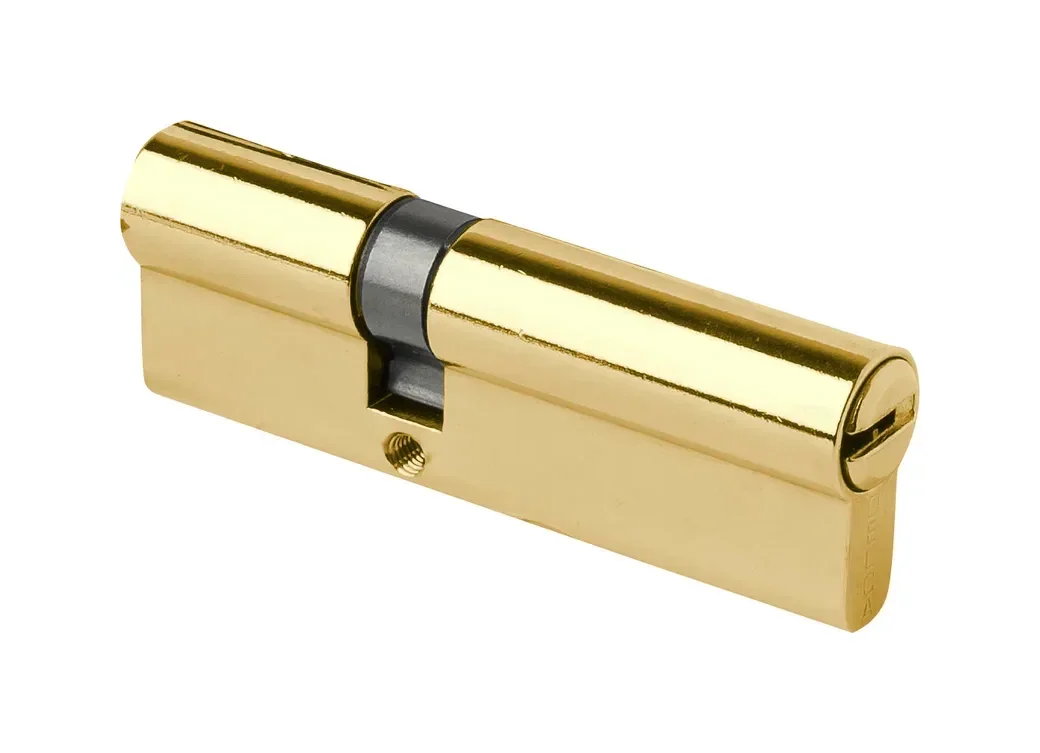
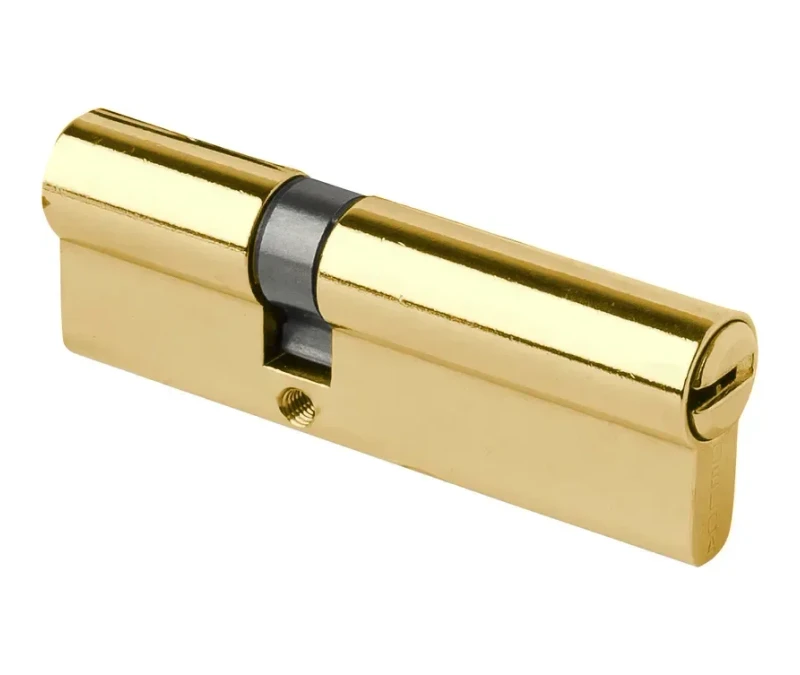
Update simple-cylinder product cards and photos
- Resize product-21.webp (010-27/33) to 800x675 to match other product photos
- Color-match cylinder-010-27-27.webp (010-27/27) to the polished brass
  tone of 010-27/33 via statistical color transfer, keeping the black
  hardware collar untouched (masked out by HSV saturation)
- Simplify the three cylinder card titles to "Κύλινδρος ασφαλείας XX χιλ."
  and move the Greek-made/3-keys note into the description line

Claude-Session: https://claude.ai/code/session_011BXxo4igi1eCFnmRRgzqpH

diff --git a/index.html b/index.html
@@ -717,15 +717,15 @@
         <div class="prod-grid">
           <article class="prod-card" data-spec-el="Τύπος: Ελληνικός κύλινδρος ασφαλείας|Κέντρο: 27x27mm (54mm συνολικό μήκος)|Φινίρισμα: Ορείχαλκο|Περιλαμβάνει 3 κλειδιά">
             <div class="prod-photo"><img src="images/cylinder-010-27-27.webp" loading="lazy" alt="Κύλινδρος ασφαλείας 54mm Ορείχαλκο"></div>
-            <div class="prod-info"><span class="prod-code">010-27/27</span><h4 data-i18n="p20t">Κύλινδρος ασφαλείας 54 χιλ. Ελληνικός</h4><p data-i18n="p20d">Επιμεταλλωμένο φινίρισμα.</p></div>
+            <div class="prod-info"><span class="prod-code">010-27/27</span><h4 data-i18n="p20t">Κύλινδρος ασφαλείας 54 χιλ.</h4><p data-i18n="p20d">Ελληνικός, με 3 κλειδιά.</p></div>
           </article>
           <article class="prod-card" data-spec-el="Τύπος: Ελληνικός κύλινδρος ασφαλείας|Κέντρο: 27x33mm (60mm συνολικό μήκος)|Φινίρισμα: Ορείχαλκο|Περιλαμβάνει 3 κλειδιά">
             <div class="prod-photo"><img src="images/product-21.webp" loading="lazy" alt="Κύλινδρος ασφαλείας 60 χιλ. Ελληνικός"></div>
-            <div class="prod-info"><span class="prod-code">010-27/33</span><h4 data-i18n="p21t">Κύλινδρος ασφαλείας 60 χιλ.</h4><p data-i18n="p21d">Ελληνικός.</p></div>
+            <div class="prod-info"><span class="prod-code">010-27/33</span><h4 data-i18n="p21t">Κύλινδρος ασφαλείας 60 χιλ.</h4><p data-i18n="p21d">Ελληνικός, με 3 κλειδιά.</p></div>
           </article>
           <article class="prod-card" data-spec-el="Τύπος: Ελληνικός κύλινδρος ασφαλείας|Κέντρο: 30x45mm (75mm συνολικό μήκος)|Φινίρισμα: Νίκελ|Περιλαμβάνει 3 κλειδιά">
             <div class="prod-photo"><img src="images/cylinder-010-30-45N.webp" loading="lazy" alt="Κύλινδρος ασφαλείας 75mm Νίκελ"></div>
-            <div class="prod-info"><span class="prod-code">010-30/45Ν</span><h4 data-i18n="p22t">Κύλινδρος ασφαλείας 75 χιλ.</h4><p data-i18n="p22d">Νίκελ, Ελληνικός.</p></div>
+            <div class="prod-info"><span class="prod-code">010-30/45Ν</span><h4 data-i18n="p22t">Κύλινδρος ασφαλείας 75 χιλ.</h4><p data-i18n="p22d">Ελληνικός, με 3 κλειδιά.</p></div>
           </article>
         </div>
       </div>
@@ -1132,12 +1132,12 @@
     "p19t": {el:"Μεσόπορτας ξύλου", en:"Wood Interior Door Lock", it:"Serratura per Porta Interna in Legno", de:"Innentürschloss für Holztüren", fr:"Serrure de Porte Intérieure Bois"},
     "p19d": {el:"Σειρά Testa για ξύλινες πόρτες.", en:"Testa line for wooden doors.", it:"Linea Testa per porte in legno.", de:"Testa-Serie für Holztüren.", fr:"Gamme Testa pour portes en bois."},
 
-    "p20t": {el:"Κύλινδρος ασφαλείας 54 χιλ. Ελληνικός", en:"Security Cylinder 54mm, Greek-made", it:"Cilindro di Sicurezza 54mm, di produzione greca", de:"Sicherheitszylinder 54mm, griechische Fertigung", fr:"Cylindre de Sécurité 54mm, fabrication grecque"},
-    "p20d": {el:"Επιμεταλλωμένο φινίρισμα.", en:"Plated finish.", it:"Finitura placcata.", de:"Beschichtetes Finish.", fr:"Finition plaquée."},
+    "p20t": {el:"Κύλινδρος ασφαλείας 54 χιλ.", en:"Security Cylinder 54mm", it:"Cilindro di Sicurezza 54mm", de:"Sicherheitszylinder 54mm", fr:"Cylindre de Sécurité 54mm"},
+    "p20d": {el:"Ελληνικός, με 3 κλειδιά.", en:"Greek-made, with 3 keys.", it:"Di produzione greca, con 3 chiavi.", de:"Griechische Fertigung, mit 3 Schlüsseln.", fr:"Fabrication grecque, avec 3 clés."},
     "p21t": {el:"Κύλινδρος ασφαλείας 60 χιλ.", en:"Security Cylinder 60mm", it:"Cilindro di Sicurezza 60mm", de:"Sicherheitszylinder 60mm", fr:"Cylindre de Sécurité 60mm"},
-    "p21d": {el:"Ελληνικός.", en:"Greek-made.", it:"Di produzione greca.", de:"Griechische Fertigung.", fr:"Fabrication grecque."},
+    "p21d": {el:"Ελληνικός, με 3 κλειδιά.", en:"Greek-made, with 3 keys.", it:"Di produzione greca, con 3 chiavi.", de:"Griechische Fertigung, mit 3 Schlüsseln.", fr:"Fabrication grecque, avec 3 clés."},
     "p22t": {el:"Κύλινδρος ασφαλείας 75 χιλ.", en:"Security Cylinder 75mm", it:"Cilindro di Sicurezza 75mm", de:"Sicherheitszylinder 75mm", fr:"Cylindre de Sécurité 75mm"},
-    "p22d": {el:"Νίκελ, Ελληνικός.", en:"Nickel, Greek-made.", it:"Nichel, di produzione greca.", de:"Nickel, griechische Fertigung.", fr:"Nickel, fabrication grecque."},
+    "p22d": {el:"Ελληνικός, με 3 κλειδιά.", en:"Greek-made, with 3 keys.", it:"Di produzione greca, con 3 chiavi.", de:"Griechische Fertigung, mit 3 Schlüsseln.", fr:"Fabrication grecque, avec 3 clés."},
 
     "p24t": {el:"Κλειδί επίπλων", en:"Furniture Key", it:"Chiave per Mobili", de:"Möbelschlüssel", fr:"Clé de Meuble"},
     "p24d": {el:"Γαλβανιζέ, σε 4 συνδυασμούς.", en:"Galvanized, in 4 combinations.", it:"Zincata, in 4 combinazioni.", de:"Verzinkt, in 4 Kombinationen.", fr:"Galvanisée, en 4 combinaisons."},
@@ -1470,6 +1470,7 @@
     });
   });
 </script>
+
 
 
 

diff --git a/de/index.html b/de/index.html
@@ -717,15 +717,15 @@
         <div class="prod-grid">
           <article class="prod-card" data-spec-el="Τύπος: Ελληνικός κύλινδρος ασφαλείας|Κέντρο: 27x27mm (54mm συνολικό μήκος)|Φινίρισμα: Ορείχαλκο|Περιλαμβάνει 3 κλειδιά">
             <div class="prod-photo"><img src="../images/cylinder-010-27-27.webp" loading="lazy" alt="Κύλινδρος ασφαλείας 54mm Ορείχαλκο"></div>
-            <div class="prod-info"><span class="prod-code">010-27/27</span><h4 data-i18n="p20t">Sicherheitszylinder 54mm, griechische Fertigung</h4><p data-i18n="p20d">Beschichtetes Finish.</p></div>
+            <div class="prod-info"><span class="prod-code">010-27/27</span><h4 data-i18n="p20t">Sicherheitszylinder 54mm</h4><p data-i18n="p20d">Griechische Fertigung, mit 3 Schlüsseln.</p></div>
           </article>
           <article class="prod-card" data-spec-el="Τύπος: Ελληνικός κύλινδρος ασφαλείας|Κέντρο: 27x33mm (60mm συνολικό μήκος)|Φινίρισμα: Ορείχαλκο|Περιλαμβάνει 3 κλειδιά">
             <div class="prod-photo"><img src="../images/product-21.webp" loading="lazy" alt="Κύλινδρος ασφαλείας 60 χιλ. Ελληνικός"></div>
-            <div class="prod-info"><span class="prod-code">010-27/33</span><h4 data-i18n="p21t">Sicherheitszylinder 60mm</h4><p data-i18n="p21d">Griechische Fertigung.</p></div>
+            <div class="prod-info"><span class="prod-code">010-27/33</span><h4 data-i18n="p21t">Sicherheitszylinder 60mm</h4><p data-i18n="p21d">Griechische Fertigung, mit 3 Schlüsseln.</p></div>
           </article>
           <article class="prod-card" data-spec-el="Τύπος: Ελληνικός κύλινδρος ασφαλείας|Κέντρο: 30x45mm (75mm συνολικό μήκος)|Φινίρισμα: Νίκελ|Περιλαμβάνει 3 κλειδιά">
             <div class="prod-photo"><img src="../images/cylinder-010-30-45N.webp" loading="lazy" alt="Κύλινδρος ασφαλείας 75mm Νίκελ"></div>
-            <div class="prod-info"><span class="prod-code">010-30/45Ν</span><h4 data-i18n="p22t">Sicherheitszylinder 75mm</h4><p data-i18n="p22d">Nickel, griechische Fertigung.</p></div>
+            <div class="prod-info"><span class="prod-code">010-30/45Ν</span><h4 data-i18n="p22t">Sicherheitszylinder 75mm</h4><p data-i18n="p22d">Griechische Fertigung, mit 3 Schlüsseln.</p></div>
           </article>
         </div>
       </div>
@@ -1132,12 +1132,12 @@
     "p19t": {el:"Μεσόπορτας ξύλου", en:"Wood Interior Door Lock", it:"Serratura per Porta Interna in Legno", de:"Innentürschloss für Holztüren", fr:"Serrure de Porte Intérieure Bois"},
     "p19d": {el:"Σειρά Testa για ξύλινες πόρτες.", en:"Testa line for wooden doors.", it:"Linea Testa per porte in legno.", de:"Testa-Serie für Holztüren.", fr:"Gamme Testa pour portes en bois."},
 
-    "p20t": {el:"Κύλινδρος ασφαλείας 54 χιλ. Ελληνικός", en:"Security Cylinder 54mm, Greek-made", it:"Cilindro di Sicurezza 54mm, di produzione greca", de:"Sicherheitszylinder 54mm, griechische Fertigung", fr:"Cylindre de Sécurité 54mm, fabrication grecque"},
-    "p20d": {el:"Επιμεταλλωμένο φινίρισμα.", en:"Plated finish.", it:"Finitura placcata.", de:"Beschichtetes Finish.", fr:"Finition plaquée."},
+    "p20t": {el:"Κύλινδρος ασφαλείας 54 χιλ.", en:"Security Cylinder 54mm", it:"Cilindro di Sicurezza 54mm", de:"Sicherheitszylinder 54mm", fr:"Cylindre de Sécurité 54mm"},
+    "p20d": {el:"Ελληνικός, με 3 κλειδιά.", en:"Greek-made, with 3 keys.", it:"Di produzione greca, con 3 chiavi.", de:"Griechische Fertigung, mit 3 Schlüsseln.", fr:"Fabrication grecque, avec 3 clés."},
     "p21t": {el:"Κύλινδρος ασφαλείας 60 χιλ.", en:"Security Cylinder 60mm", it:"Cilindro di Sicurezza 60mm", de:"Sicherheitszylinder 60mm", fr:"Cylindre de Sécurité 60mm"},
-    "p21d": {el:"Ελληνικός.", en:"Greek-made.", it:"Di produzione greca.", de:"Griechische Fertigung.", fr:"Fabrication grecque."},
+    "p21d": {el:"Ελληνικός, με 3 κλειδιά.", en:"Greek-made, with 3 keys.", it:"Di produzione greca, con 3 chiavi.", de:"Griechische Fertigung, mit 3 Schlüsseln.", fr:"Fabrication grecque, avec 3 clés."},
     "p22t": {el:"Κύλινδρος ασφαλείας 75 χιλ.", en:"Security Cylinder 75mm", it:"Cilindro di Sicurezza 75mm", de:"Sicherheitszylinder 75mm", fr:"Cylindre de Sécurité 75mm"},
-    "p22d": {el:"Νίκελ, Ελληνικός.", en:"Nickel, Greek-made.", it:"Nichel, di produzione greca.", de:"Nickel, griechische Fertigung.", fr:"Nickel, fabrication grecque."},
+    "p22d": {el:"Ελληνικός, με 3 κλειδιά.", en:"Greek-made, with 3 keys.", it:"Di produzione greca, con 3 chiavi.", de:"Griechische Fertigung, mit 3 Schlüsseln.", fr:"Fabrication grecque, avec 3 clés."},
 
     "p24t": {el:"Κλειδί επίπλων", en:"Furniture Key", it:"Chiave per Mobili", de:"Möbelschlüssel", fr:"Clé de Meuble"},
     "p24d": {el:"Γαλβανιζέ, σε 4 συνδυασμούς.", en:"Galvanized, in 4 combinations.", it:"Zincata, in 4 combinazioni.", de:"Verzinkt, in 4 Kombinationen.", fr:"Galvanisée, en 4 combinaisons."},
@@ -1470,6 +1470,7 @@
     });
   });
 </script>
+
 
 
 

diff --git a/fr/index.html b/fr/index.html
@@ -717,15 +717,15 @@
         <div class="prod-grid">
           <article class="prod-card" data-spec-el="Τύπος: Ελληνικός κύλινδρος ασφαλείας|Κέντρο: 27x27mm (54mm συνολικό μήκος)|Φινίρισμα: Ορείχαλκο|Περιλαμβάνει 3 κλειδιά">
             <div class="prod-photo"><img src="../images/cylinder-010-27-27.webp" loading="lazy" alt="Κύλινδρος ασφαλείας 54mm Ορείχαλκο"></div>
-            <div class="prod-info"><span class="prod-code">010-27/27</span><h4 data-i18n="p20t">Cylindre de Sécurité 54mm, fabrication grecque</h4><p data-i18n="p20d">Finition plaquée.</p></div>
+            <div class="prod-info"><span class="prod-code">010-27/27</span><h4 data-i18n="p20t">Cylindre de Sécurité 54mm</h4><p data-i18n="p20d">Fabrication grecque, avec 3 clés.</p></div>
           </article>
           <article class="prod-card" data-spec-el="Τύπος: Ελληνικός κύλινδρος ασφαλείας|Κέντρο: 27x33mm (60mm συνολικό μήκος)|Φινίρισμα: Ορείχαλκο|Περιλαμβάνει 3 κλειδιά">
             <div class="prod-photo"><img src="../images/product-21.webp" loading="lazy" alt="Κύλινδρος ασφαλείας 60 χιλ. Ελληνικός"></div>
-            <div class="prod-info"><span class="prod-code">010-27/33</span><h4 data-i18n="p21t">Cylindre de Sécurité 60mm</h4><p data-i18n="p21d">Fabrication grecque.</p></div>
+            <div class="prod-info"><span class="prod-code">010-27/33</span><h4 data-i18n="p21t">Cylindre de Sécurité 60mm</h4><p data-i18n="p21d">Fabrication grecque, avec 3 clés.</p></div>
           </article>
           <article class="prod-card" data-spec-el="Τύπος: Ελληνικός κύλινδρος ασφαλείας|Κέντρο: 30x45mm (75mm συνολικό μήκος)|Φινίρισμα: Νίκελ|Περιλαμβάνει 3 κλειδιά">
             <div class="prod-photo"><img src="../images/cylinder-010-30-45N.webp" loading="lazy" alt="Κύλινδρος ασφαλείας 75mm Νίκελ"></div>
-            <div class="prod-info"><span class="prod-code">010-30/45Ν</span><h4 data-i18n="p22t">Cylindre de Sécurité 75mm</h4><p data-i18n="p22d">Nickel, fabrication grecque.</p></div>
+            <div class="prod-info"><span class="prod-code">010-30/45Ν</span><h4 data-i18n="p22t">Cylindre de Sécurité 75mm</h4><p data-i18n="p22d">Fabrication grecque, avec 3 clés.</p></div>
           </article>
         </div>
       </div>
@@ -1132,12 +1132,12 @@
     "p19t": {el:"Μεσόπορτας ξύλου", en:"Wood Interior Door Lock", it:"Serratura per Porta Interna in Legno", de:"Innentürschloss für Holztüren", fr:"Serrure de Porte Intérieure Bois"},
     "p19d": {el:"Σειρά Testa για ξύλινες πόρτες.", en:"Testa line for wooden doors.", it:"Linea Testa per porte in legno.", de:"Testa-Serie für Holztüren.", fr:"Gamme Testa pour portes en bois."},
 
-    "p20t": {el:"Κύλινδρος ασφαλείας 54 χιλ. Ελληνικός", en:"Security Cylinder 54mm, Greek-made", it:"Cilindro di Sicurezza 54mm, di produzione greca", de:"Sicherheitszylinder 54mm, griechische Fertigung", fr:"Cylindre de Sécurité 54mm, fabrication grecque"},
-    "p20d": {el:"Επιμεταλλωμένο φινίρισμα.", en:"Plated finish.", it:"Finitura placcata.", de:"Beschichtetes Finish.", fr:"Finition plaquée."},
+    "p20t": {el:"Κύλινδρος ασφαλείας 54 χιλ.", en:"Security Cylinder 54mm", it:"Cilindro di Sicurezza 54mm", de:"Sicherheitszylinder 54mm", fr:"Cylindre de Sécurité 54mm"},
+    "p20d": {el:"Ελληνικός, με 3 κλειδιά.", en:"Greek-made, with 3 keys.", it:"Di produzione greca, con 3 chiavi.", de:"Griechische Fertigung, mit 3 Schlüsseln.", fr:"Fabrication grecque, avec 3 clés."},
     "p21t": {el:"Κύλινδρος ασφαλείας 60 χιλ.", en:"Security Cylinder 60mm", it:"Cilindro di Sicurezza 60mm", de:"Sicherheitszylinder 60mm", fr:"Cylindre de Sécurité 60mm"},
-    "p21d": {el:"Ελληνικός.", en:"Greek-made.", it:"Di produzione greca.", de:"Griechische Fertigung.", fr:"Fabrication grecque."},
+    "p21d": {el:"Ελληνικός, με 3 κλειδιά.", en:"Greek-made, with 3 keys.", it:"Di produzione greca, con 3 chiavi.", de:"Griechische Fertigung, mit 3 Schlüsseln.", fr:"Fabrication grecque, avec 3 clés."},
     "p22t": {el:"Κύλινδρος ασφαλείας 75 χιλ.", en:"Security Cylinder 75mm", it:"Cilindro di Sicurezza 75mm", de:"Sicherheitszylinder 75mm", fr:"Cylindre de Sécurité 75mm"},
-    "p22d": {el:"Νίκελ, Ελληνικός.", en:"Nickel, Greek-made.", it:"Nichel, di produzione greca.", de:"Nickel, griechische Fertigung.", fr:"Nickel, fabrication grecque."},
+    "p22d": {el:"Ελληνικός, με 3 κλειδιά.", en:"Greek-made, with 3 keys.", it:"Di produzione greca, con 3 chiavi.", de:"Griechische Fertigung, mit 3 Schlüsseln.", fr:"Fabrication grecque, avec 3 clés."},
 
     "p24t": {el:"Κλειδί επίπλων", en:"Furniture Key", it:"Chiave per Mobili", de:"Möbelschlüssel", fr:"Clé de Meuble"},
     "p24d": {el:"Γαλβανιζέ, σε 4 συνδυασμούς.", en:"Galvanized, in 4 combinations.", it:"Zincata, in 4 combinazioni.", de:"Verzinkt, in 4 Kombinationen.", fr:"Galvanisée, en 4 combinaisons."},
@@ -1470,6 +1470,7 @@
     });
   });
 </script>
+
 
 
 

diff --git a/it/index.html b/it/index.html
@@ -717,15 +717,15 @@
         <div class="prod-grid">
           <article class="prod-card" data-spec-el="Τύπος: Ελληνικός κύλινδρος ασφαλείας|Κέντρο: 27x27mm (54mm συνολικό μήκος)|Φινίρισμα: Ορείχαλκο|Περιλαμβάνει 3 κλειδιά">
             <div class="prod-photo"><img src="../images/cylinder-010-27-27.webp" loading="lazy" alt="Κύλινδρος ασφαλείας 54mm Ορείχαλκο"></div>
-            <div class="prod-info"><span class="prod-code">010-27/27</span><h4 data-i18n="p20t">Cilindro di Sicurezza 54mm, di produzione greca</h4><p data-i18n="p20d">Finitura placcata.</p></div>
+            <div class="prod-info"><span class="prod-code">010-27/27</span><h4 data-i18n="p20t">Cilindro di Sicurezza 54mm</h4><p data-i18n="p20d">Di produzione greca, con 3 chiavi.</p></div>
           </article>
           <article class="prod-card" data-spec-el="Τύπος: Ελληνικός κύλινδρος ασφαλείας|Κέντρο: 27x33mm (60mm συνολικό μήκος)|Φινίρισμα: Ορείχαλκο|Περιλαμβάνει 3 κλειδιά">
             <div class="prod-photo"><img src="../images/product-21.webp" loading="lazy" alt="Κύλινδρος ασφαλείας 60 χιλ. Ελληνικός"></div>
-            <div class="prod-info"><span class="prod-code">010-27/33</span><h4 data-i18n="p21t">Cilindro di Sicurezza 60mm</h4><p data-i18n="p21d">Di produzione greca.</p></div>
+            <div class="prod-info"><span class="prod-code">010-27/33</span><h4 data-i18n="p21t">Cilindro di Sicurezza 60mm</h4><p data-i18n="p21d">Di produzione greca, con 3 chiavi.</p></div>
           </article>
           <article class="prod-card" data-spec-el="Τύπος: Ελληνικός κύλινδρος ασφαλείας|Κέντρο: 30x45mm (75mm συνολικό μήκος)|Φινίρισμα: Νίκελ|Περιλαμβάνει 3 κλειδιά">
             <div class="prod-photo"><img src="../images/cylinder-010-30-45N.webp" loading="lazy" alt="Κύλινδρος ασφαλείας 75mm Νίκελ"></div>
-            <div class="prod-info"><span class="prod-code">010-30/45Ν</span><h4 data-i18n="p22t">Cilindro di Sicurezza 75mm</h4><p data-i18n="p22d">Nichel, di produzione greca.</p></div>
+            <div class="prod-info"><span class="prod-code">010-30/45Ν</span><h4 data-i18n="p22t">Cilindro di Sicurezza 75mm</h4><p data-i18n="p22d">Di produzione greca, con 3 chiavi.</p></div>
           </article>
         </div>
       </div>
@@ -1132,12 +1132,12 @@
     "p19t": {el:"Μεσόπορτας ξύλου", en:"Wood Interior Door Lock", it:"Serratura per Porta Interna in Legno", de:"Innentürschloss für Holztüren", fr:"Serrure de Porte Intérieure Bois"},
     "p19d": {el:"Σειρά Testa για ξύλινες πόρτες.", en:"Testa line for wooden doors.", it:"Linea Testa per porte in legno.", de:"Testa-Serie für Holztüren.", fr:"Gamme Testa pour portes en bois."},
 
-    "p20t": {el:"Κύλινδρος ασφαλείας 54 χιλ. Ελληνικός", en:"Security Cylinder 54mm, Greek-made", it:"Cilindro di Sicurezza 54mm, di produzione greca", de:"Sicherheitszylinder 54mm, griechische Fertigung", fr:"Cylindre de Sécurité 54mm, fabrication grecque"},
-    "p20d": {el:"Επιμεταλλωμένο φινίρισμα.", en:"Plated finish.", it:"Finitura placcata.", de:"Beschichtetes Finish.", fr:"Finition plaquée."},
+    "p20t": {el:"Κύλινδρος ασφαλείας 54 χιλ.", en:"Security Cylinder 54mm", it:"Cilindro di Sicurezza 54mm", de:"Sicherheitszylinder 54mm", fr:"Cylindre de Sécurité 54mm"},
+    "p20d": {el:"Ελληνικός, με 3 κλειδιά.", en:"Greek-made, with 3 keys.", it:"Di produzione greca, con 3 chiavi.", de:"Griechische Fertigung, mit 3 Schlüsseln.", fr:"Fabrication grecque, avec 3 clés."},
     "p21t": {el:"Κύλινδρος ασφαλείας 60 χιλ.", en:"Security Cylinder 60mm", it:"Cilindro di Sicurezza 60mm", de:"Sicherheitszylinder 60mm", fr:"Cylindre de Sécurité 60mm"},
-    "p21d": {el:"Ελληνικός.", en:"Greek-made.", it:"Di produzione greca.", de:"Griechische Fertigung.", fr:"Fabrication grecque."},
+    "p21d": {el:"Ελληνικός, με 3 κλειδιά.", en:"Greek-made, with 3 keys.", it:"Di produzione greca, con 3 chiavi.", de:"Griechische Fertigung, mit 3 Schlüsseln.", fr:"Fabrication grecque, avec 3 clés."},
     "p22t": {el:"Κύλινδρος ασφαλείας 75 χιλ.", en:"Security Cylinder 75mm", it:"Cilindro di Sicurezza 75mm", de:"Sicherheitszylinder 75mm", fr:"Cylindre de Sécurité 75mm"},
-    "p22d": {el:"Νίκελ, Ελληνικός.", en:"Nickel, Greek-made.", it:"Nichel, di produzione greca.", de:"Nickel, griechische Fertigung.", fr:"Nickel, fabrication grecque."},
+    "p22d": {el:"Ελληνικός, με 3 κλειδιά.", en:"Greek-made, with 3 keys.", it:"Di produzione greca, con 3 chiavi.", de:"Griechische Fertigung, mit 3 Schlüsseln.", fr:"Fabrication grecque, avec 3 clés."},
 
     "p24t": {el:"Κλειδί επίπλων", en:"Furniture Key", it:"Chiave per Mobili", de:"Möbelschlüssel", fr:"Clé de Meuble"},
     "p24d": {el:"Γαλβανιζέ, σε 4 συνδυασμούς.", en:"Galvanized, in 4 combinations.", it:"Zincata, in 4 combinazioni.", de:"Verzinkt, in 4 Kombinationen.", fr:"Galvanisée, en 4 combinaisons."},
@@ -1470,6 +1470,7 @@
     });
   });
 </script>
+
 
 
 

diff --git a/en/index.html b/en/index.html
@@ -717,15 +717,15 @@
         <div class="prod-grid">
           <article class="prod-card" data-spec-el="Τύπος: Ελληνικός κύλινδρος ασφαλείας|Κέντρο: 27x27mm (54mm συνολικό μήκος)|Φινίρισμα: Ορείχαλκο|Περιλαμβάνει 3 κλειδιά">
             <div class="prod-photo"><img src="../images/cylinder-010-27-27.webp" loading="lazy" alt="Κύλινδρος ασφαλείας 54mm Ορείχαλκο"></div>
-            <div class="prod-info"><span class="prod-code">010-27/27</span><h4 data-i18n="p20t">Security Cylinder 54mm, Greek-made</h4><p data-i18n="p20d">Plated finish.</p></div>
+            <div class="prod-info"><span class="prod-code">010-27/27</span><h4 data-i18n="p20t">Security Cylinder 54mm</h4><p data-i18n="p20d">Greek-made, with 3 keys.</p></div>
           </article>
           <article class="prod-card" data-spec-el="Τύπος: Ελληνικός κύλινδρος ασφαλείας|Κέντρο: 27x33mm (60mm συνολικό μήκος)|Φινίρισμα: Ορείχαλκο|Περιλαμβάνει 3 κλειδιά">
             <div class="prod-photo"><img src="../images/product-21.webp" loading="lazy" alt="Κύλινδρος ασφαλείας 60 χιλ. Ελληνικός"></div>
-            <div class="prod-info"><span class="prod-code">010-27/33</span><h4 data-i18n="p21t">Security Cylinder 60mm</h4><p data-i18n="p21d">Greek-made.</p></div>
+            <div class="prod-info"><span class="prod-code">010-27/33</span><h4 data-i18n="p21t">Security Cylinder 60mm</h4><p data-i18n="p21d">Greek-made, with 3 keys.</p></div>
           </article>
           <article class="prod-card" data-spec-el="Τύπος: Ελληνικός κύλινδρος ασφαλείας|Κέντρο: 30x45mm (75mm συνολικό μήκος)|Φινίρισμα: Νίκελ|Περιλαμβάνει 3 κλειδιά">
             <div class="prod-photo"><img src="../images/cylinder-010-30-45N.webp" loading="lazy" alt="Κύλινδρος ασφαλείας 75mm Νίκελ"></div>
-            <div class="prod-info"><span class="prod-code">010-30/45Ν</span><h4 data-i18n="p22t">Security Cylinder 75mm</h4><p data-i18n="p22d">Nickel, Greek-made.</p></div>
+            <div class="prod-info"><span class="prod-code">010-30/45Ν</span><h4 data-i18n="p22t">Security Cylinder 75mm</h4><p data-i18n="p22d">Greek-made, with 3 keys.</p></div>
           </article>
         </div>
       </div>
@@ -1132,12 +1132,12 @@
     "p19t": {el:"Μεσόπορτας ξύλου", en:"Wood Interior Door Lock", it:"Serratura per Porta Interna in Legno", de:"Innentürschloss für Holztüren", fr:"Serrure de Porte Intérieure Bois"},
     "p19d": {el:"Σειρά Testa για ξύλινες πόρτες.", en:"Testa line for wooden doors.", it:"Linea Testa per porte in legno.", de:"Testa-Serie für Holztüren.", fr:"Gamme Testa pour portes en bois."},
 
-    "p20t": {el:"Κύλινδρος ασφαλείας 54 χιλ. Ελληνικός", en:"Security Cylinder 54mm, Greek-made", it:"Cilindro di Sicurezza 54mm, di produzione greca", de:"Sicherheitszylinder 54mm, griechische Fertigung", fr:"Cylindre de Sécurité 54mm, fabrication grecque"},
-    "p20d": {el:"Επιμεταλλωμένο φινίρισμα.", en:"Plated finish.", it:"Finitura placcata.", de:"Beschichtetes Finish.", fr:"Finition plaquée."},
+    "p20t": {el:"Κύλινδρος ασφαλείας 54 χιλ.", en:"Security Cylinder 54mm", it:"Cilindro di Sicurezza 54mm", de:"Sicherheitszylinder 54mm", fr:"Cylindre de Sécurité 54mm"},
+    "p20d": {el:"Ελληνικός, με 3 κλειδιά.", en:"Greek-made, with 3 keys.", it:"Di produzione greca, con 3 chiavi.", de:"Griechische Fertigung, mit 3 Schlüsseln.", fr:"Fabrication grecque, avec 3 clés."},
     "p21t": {el:"Κύλινδρος ασφαλείας 60 χιλ.", en:"Security Cylinder 60mm", it:"Cilindro di Sicurezza 60mm", de:"Sicherheitszylinder 60mm", fr:"Cylindre de Sécurité 60mm"},
-    "p21d": {el:"Ελληνικός.", en:"Greek-made.", it:"Di produzione greca.", de:"Griechische Fertigung.", fr:"Fabrication grecque."},
+    "p21d": {el:"Ελληνικός, με 3 κλειδιά.", en:"Greek-made, with 3 keys.", it:"Di produzione greca, con 3 chiavi.", de:"Griechische Fertigung, mit 3 Schlüsseln.", fr:"Fabrication grecque, avec 3 clés."},
     "p22t": {el:"Κύλινδρος ασφαλείας 75 χιλ.", en:"Security Cylinder 75mm", it:"Cilindro di Sicurezza 75mm", de:"Sicherheitszylinder 75mm", fr:"Cylindre de Sécurité 75mm"},
-    "p22d": {el:"Νίκελ, Ελληνικός.", en:"Nickel, Greek-made.", it:"Nichel, di produzione greca.", de:"Nickel, griechische Fertigung.", fr:"Nickel, fabrication grecque."},
+    "p22d": {el:"Ελληνικός, με 3 κλειδιά.", en:"Greek-made, with 3 keys.", it:"Di produzione greca, con 3 chiavi.", de:"Griechische Fertigung, mit 3 Schlüsseln.", fr:"Fabrication grecque, avec 3 clés."},
 
     "p24t": {el:"Κλειδί επίπλων", en:"Furniture Key", it:"Chiave per Mobili", de:"Möbelschlüssel", fr:"Clé de Meuble"},
     "p24d": {el:"Γαλβανιζέ, σε 4 συνδυασμούς.", en:"Galvanized, in 4 combinations.", it:"Zincata, in 4 combinazioni.", de:"Verzinkt, in 4 Kombinationen.", fr:"Galvanisée, en 4 combinaisons."},
@@ -1470,6 +1470,7 @@
     });
   });
 </script>
+
 
 
 
